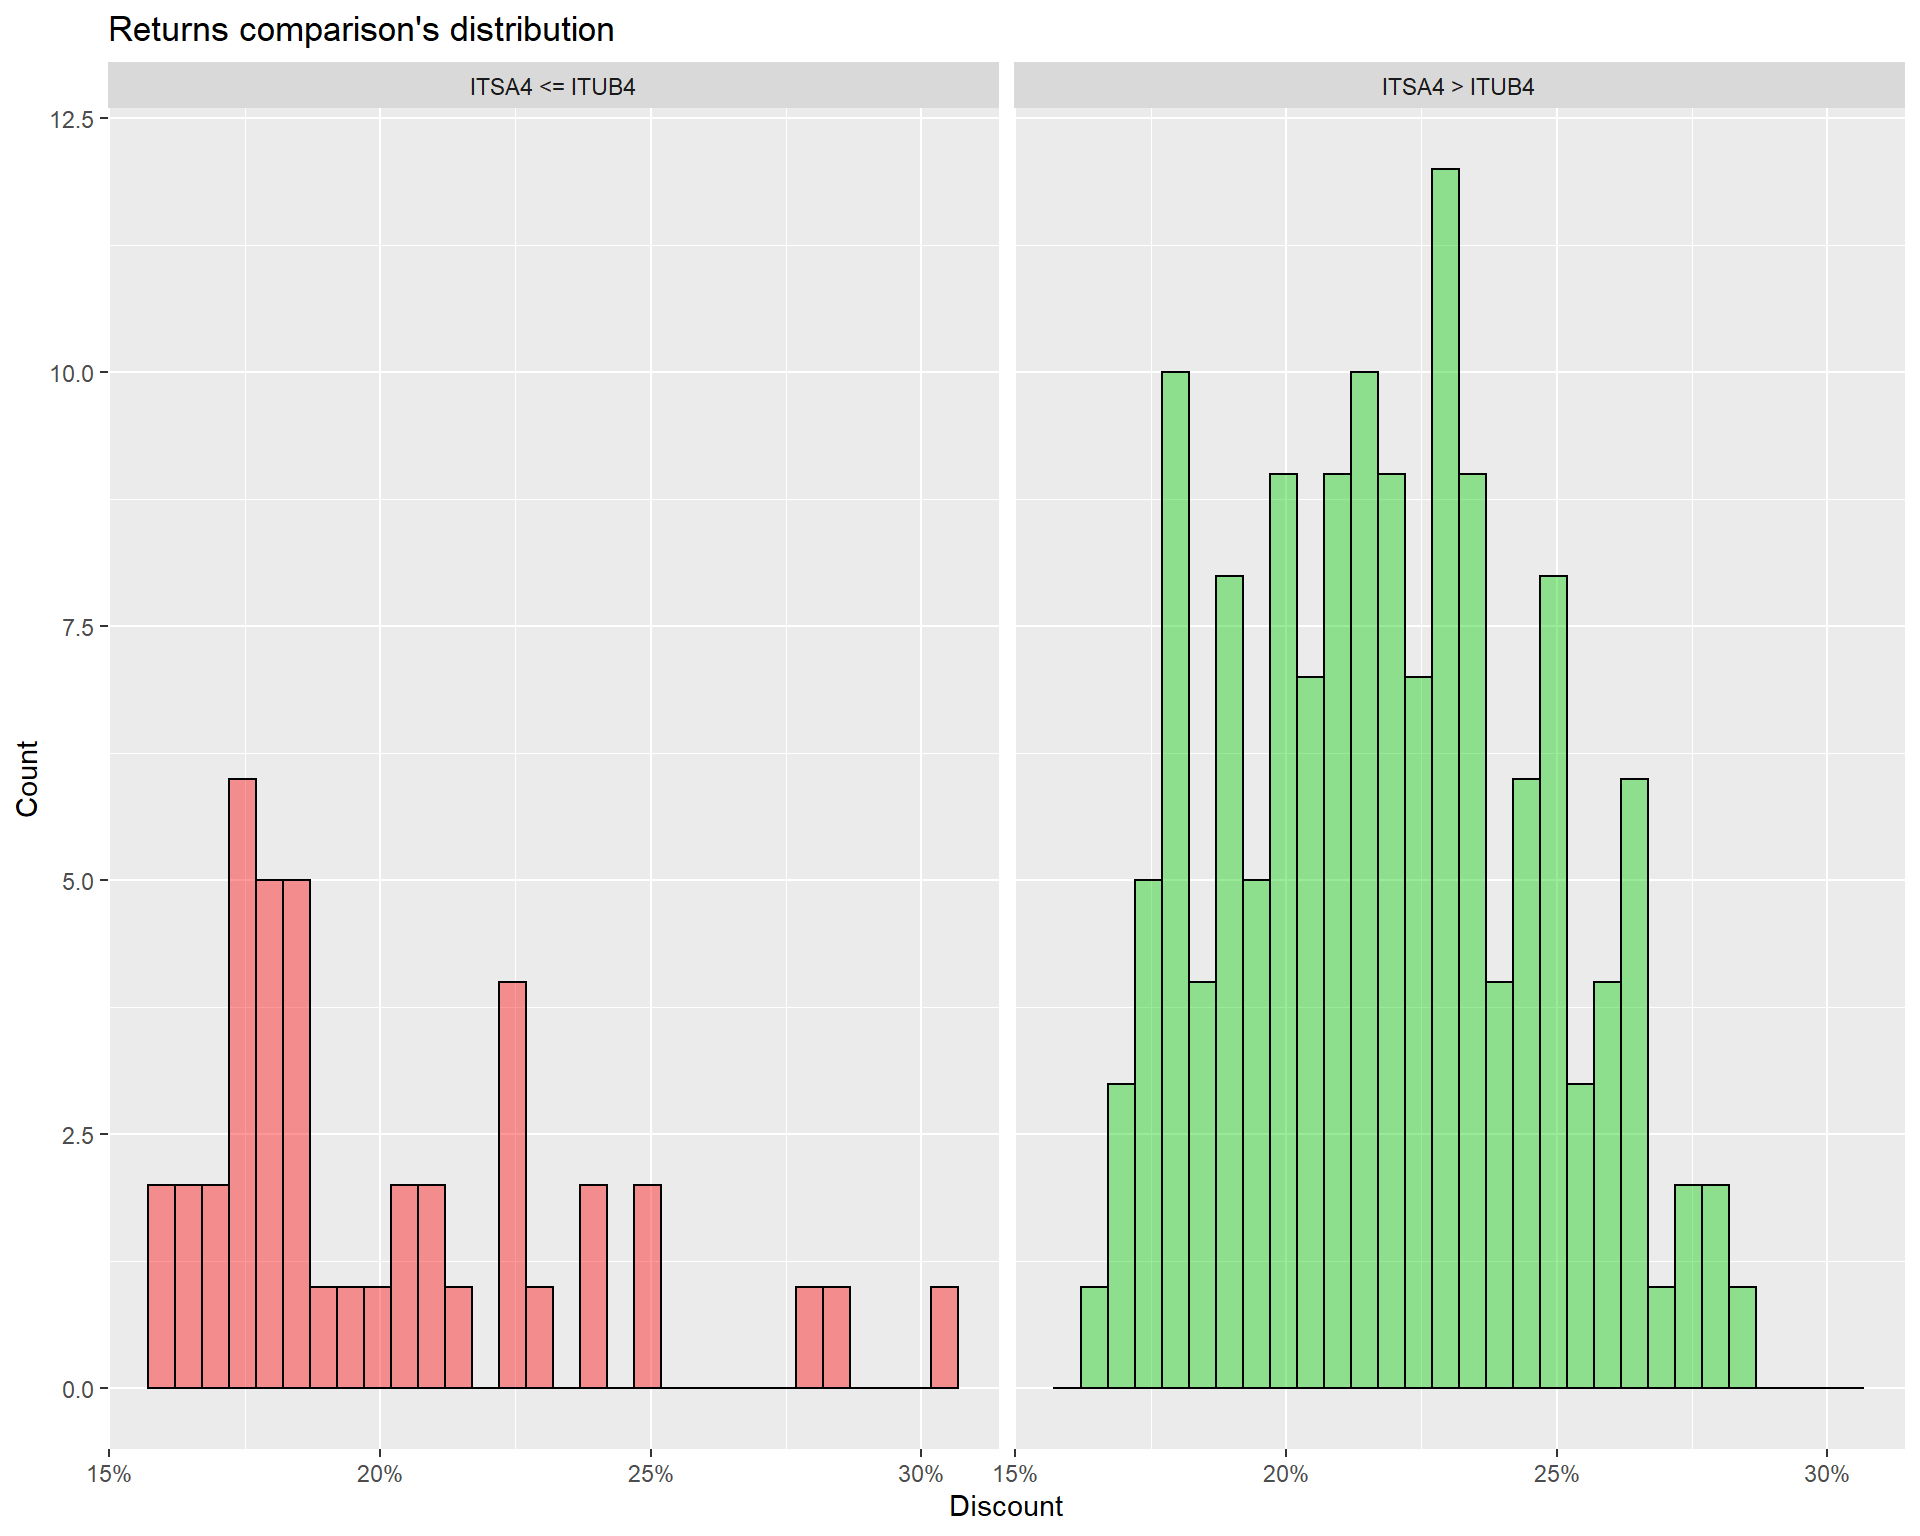
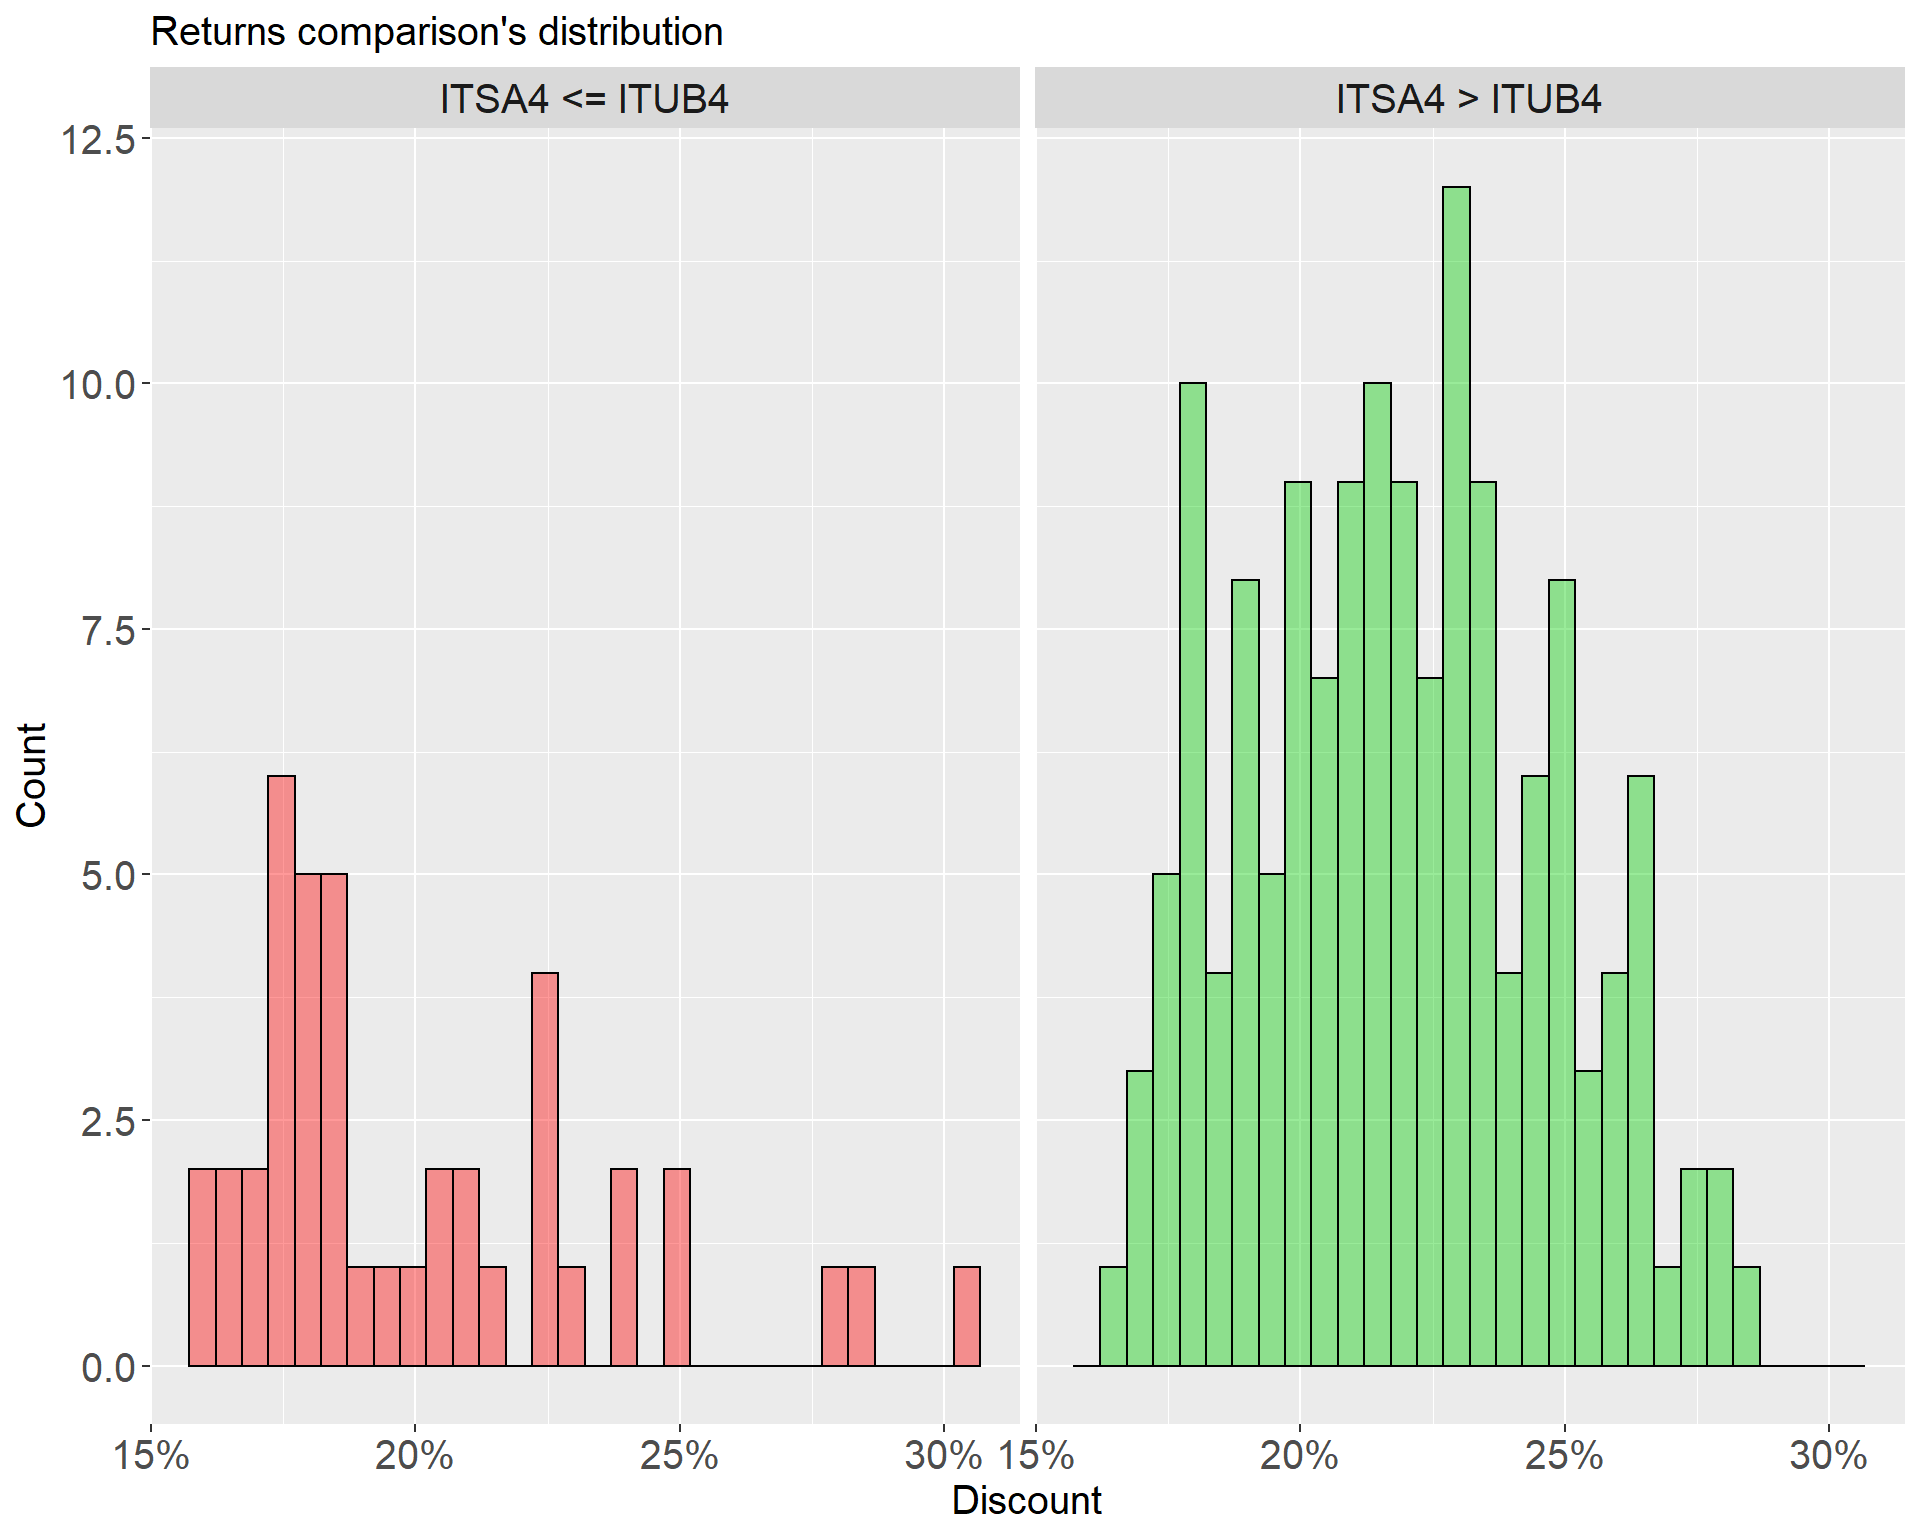
Update post

diff --git a/content/post/2021-07-31-arbitrate-itsa4-itub4/index.en.html b/content/post/2021-07-31-arbitrate-itsa4-itub4/index.en.html
@@ -53,7 +53,7 @@ g +
        y = &quot;ITUB4&quot;,
        title = &quot;Scatterplot ITSA4 versus ITUB4&quot;)</code></pre>
 <p><img src="{{< blogdown/postref >}}index.en_files/figure-html/correlation-1.png" width="960" /></p>
-<p>As you can see, correlatin is equal to 0.99, which means that ITUB4 and ITSA4 means almost the same thing. As a holding, ITSA4 is traded at a discount in relation to the sum of its investees’ market capitalization. But, how much is the “fair” discount and, can we buy ITSA4 simply to get ITUB4 at lower prices? These are the questions that this post intends to answer.</p>
+<p>As you can see, correlatin is equal to 0.99, which means that ITUB4 and ITSA4 mean almost the same thing. As a holding, ITSA4 is traded at a discount in relation to the sum of its investees’ market capitalization. But, how much is the “fair” discount, and can we buy ITSA4 simply to get ITUB4 at lower prices? These are the questions that this post intends to answer.</p>
 <p>Fortunatelly, Itaúsa calculates this discount for us, in a monthly basis (click <a href="https://www.itausa.com.br/ListAtivos.aspx?idCanal=Afrgtrc88Ma15TQHbkasoQ==&amp;linguagem=pt&amp;ano=2021">here</a> to get the data). If you don’t want to or don’t know how to get your hands dirty, I have already done the job, which you can see on the plot below:</p>
 <pre class="r"><code># load packages
 library(readxl)
@@ -74,11 +74,10 @@ ggplot(data = df, aes(x = date, y = discount)) +
   scale_y_continuous(labels = percent_format(accuracy = 1)) + 
   labs(x = &quot;Date&quot;,
        y = &quot;Discount&quot;,
-       title = &quot;Holding&#39;s discount in relation to shares held 
-       in investee companies&quot;) + 
-  theme(axis.text=element_text(size=12),
-        axis.title=element_text(size=12),
-        plot.title = element_text(size=12))</code></pre>
+       title = &quot;Holding&#39;s discount in relation to shares held in investee companies&quot;) + 
+  theme(axis.text=element_text(size=15),
+        axis.title=element_text(size=15),
+        plot.title = element_text(size=15))</code></pre>
 <p><img src="{{< blogdown/postref >}}index.en_files/figure-html/plot%20discount%20time%20series-1.png" width="960" /></p>
 <p>Dashed horizontal lines represent the mean (at the center), mean plus 1 standard deviation (at the top), and mean minus 1 standard deviation (at the bottom). In other words, in most part of the time, this discount ranges between something like 18% and 25%. Another way of visualizing the same information is plotting an histogram:</p>
 <pre class="r"><code># plot distribution
@@ -91,11 +90,11 @@ ggplot(data = df, aes(x = discount)) +
        title = &quot;Discount&#39;s Distribution&quot;) + 
   geom_vline(xintercept = mean(df$discount), 
              linetype = &quot;dashed&quot;, size = 1, color = &quot;red&quot;) + 
-  theme(axis.text=element_text(size=12),
-        axis.title=element_text(size=12),
-        plot.title = element_text(size=12))</code></pre>
+  theme(axis.text=element_text(size=15),
+        axis.title=element_text(size=15),
+        plot.title = element_text(size=15))</code></pre>
 <p><img src="{{< blogdown/postref >}}index.en_files/figure-html/discount%20histogram-1.png" width="960" /></p>
-<p>Dashed red vertical line represents the mean. Distribution is rigth-skewed, which means that in some occasions the discount was too high (more than 30%). Numerically, let’s view the summary stats:</p>
+<p>Red dashed vertical line represents the mean. Distribution is rigth-skewed, which means that in some occasions the discount was too high (more than 30%). Numerically, let’s view the summary stats:</p>
 <pre class="r"><code># summary statistics
 summary(df$discount)</code></pre>
 <pre><code>##    Min. 1st Qu.  Median    Mean 3rd Qu.    Max. 
@@ -131,7 +130,7 @@ head(data, n = 10)</code></pre>
 ## 8  2006-07-31   2.453617   6.984033   0.2768    3.552463    3.338467       1
 ## 9  2006-08-31   2.500275   6.769938   0.2512    3.467509    3.475669       0
 ## 10 2006-09-29   2.483807   6.831853   0.2681    3.497129    3.435107       1</code></pre>
-<p>There are many ways of visualizing if there are difference on discounts in both situations. Through a boxplot:</p>
+<p>There are many ways of visualizing if there are difference on discounts on both situations. Through a boxplot:</p>
 <pre class="r"><code># box plot of difference on returns
 ggplot(data = data, 
        aes(x = factor(success), 
@@ -145,9 +144,9 @@ ggplot(data = data,
        title = &quot;Returns comparison&#39;s boxplot&quot;) + 
   theme(legend.position = &quot;none&quot;) + 
   scale_fill_manual(values = c(&quot;red3&quot;,&quot;green4&quot;)) + 
-  theme(axis.text=element_text(size=12),
-        axis.title=element_text(size=12),
-        plot.title = element_text(size=12))</code></pre>
+  theme(axis.text=element_text(size=15),
+        axis.title=element_text(size=15),
+        plot.title = element_text(size=15))</code></pre>
 <p><img src="{{< blogdown/postref >}}index.en_files/figure-html/sucess%20failure%20boxplot-1.png" width="960" /></p>
 <p>A density distribution:</p>
 <pre class="r"><code># density of difference on returns                           
@@ -158,7 +157,11 @@ ggplot(data = data, aes(x = discount, fill = factor(success))) +
        y = &quot;Density&quot;,
        title = &quot;Returns comparison&#39;s distribution&quot;) + 
   theme(legend.position = &quot;bottom&quot;,
-        legend.title = element_blank()) + 
+        legend.title = element_blank(),
+        legend.text = element_text(size=15),
+        axis.text=element_text(size=15),
+        axis.title=element_text(size=15),
+        plot.title = element_text(size=15)) + 
   scale_fill_manual(labels = c(&quot;ITSA4 &lt;= ITUB4&quot;, &quot;ITSA4 &gt; ITUB4&quot;),
                     values = c(&quot;red&quot;,&quot;green3&quot;))</code></pre>
 <p><img src="{{< blogdown/postref >}}index.en_files/figure-html/success%20failure%20density-1.png" width="960" /></p>
@@ -175,7 +178,11 @@ data %&gt;%
   labs(x = &quot;Discount&quot;,
        y = &quot;Count&quot;,
        title = &quot;Returns comparison&#39;s distribution&quot;) + 
-  theme(legend.position = &quot;none&quot;) + 
+  theme(legend.position = &quot;none&quot;,
+        axis.text=element_text(size=15),
+        axis.title=element_text(size=15),
+        plot.title = element_text(size=15),
+        strip.text = element_text(size = 15)) + 
   scale_fill_manual(values=c(&quot;red&quot;, &quot;green3&quot;))</code></pre>
 <p><img src="{{< blogdown/postref >}}index.en_files/figure-html/success%20failure%20histogram-1.png" width="960" /></p>
 <p>On the three plots, we conclude that ITSA4 returns were higher than ITUB4 returns when ITSA4 was traded at a higher discount in relation to the sum of its investees’ market capitalization (which is pretty intuitive). About the third plot, green bars are much higher just because it is more frequent that ITSA4 gets a better return than ITUB4.</p>
@@ -188,28 +195,26 @@ data %&gt;%
             median = median(discount),
             mean = mean(discount),
             third_quantile = quantile(discount, .75),
-            maximum = max(discount))</code></pre>
-<pre><code>## # A tibble: 2 x 7
-##   success minimum first_quantile median  mean third_quantile maximum
-##     &lt;dbl&gt;   &lt;dbl&gt;          &lt;dbl&gt;  &lt;dbl&gt; &lt;dbl&gt;          &lt;dbl&gt;   &lt;dbl&gt;
-## 1       0   0.159          0.176  0.186 0.202          0.227   0.304
-## 2       1   0.166          0.197  0.218 0.219          0.237   0.282</code></pre>
+            maximum = max(discount)) %&gt;%
+  data.frame()</code></pre>
+<pre><code>##   success minimum first_quantile  median      mean third_quantile maximum
+## 1       0  0.1593       0.176325 0.18645 0.2017333        0.22675  0.3040
+## 2       1  0.1664       0.197100 0.21800 0.2187566        0.23720  0.2825</code></pre>
 <p>Paradoxically, the higher discount occured when ITUB4 return was higher than ITSA4 return, but this is just an exception that proves the rule. Now we will categorizy the variable discount, so that in each categorization there is at least 30 observations. After that, we will calculate the probability of success (ITSA4 &gt; ITUB4 returns) in each categorization:</p>
 <pre class="r"><code># probability of success by discount (numerically)
 library(Hmisc)
 data$discount_cat &lt;- cut2(data$discount, m = 30)
 data %&gt;%
   group_by(discount_cat) %&gt;%
-  summarise(prob = sum(success) / length(success))</code></pre>
-<pre><code>## # A tibble: 6 x 2
-##   discount_cat   prob
-##   &lt;fct&gt;         &lt;dbl&gt;
-## 1 [0.159,0.181) 0.5  
-## 2 [0.181,0.201) 0.758
-## 3 [0.201,0.213) 0.828
-## 4 [0.213,0.229) 0.839
-## 5 [0.229,0.248) 0.903
-## 6 [0.248,0.304] 0.839</code></pre>
+  summarise(prob = sum(success) / length(success)) %&gt;%
+  data.frame()</code></pre>
+<pre><code>##    discount_cat      prob
+## 1 [0.159,0.181) 0.5000000
+## 2 [0.181,0.201) 0.7575758
+## 3 [0.201,0.213) 0.8275862
+## 4 [0.213,0.229) 0.8387097
+## 5 [0.229,0.248) 0.9032258
+## 6 [0.248,0.304] 0.8387097</code></pre>
 <pre class="r"><code># view success probability by categorical discount
 data %&gt;%
   group_by(discount_cat) %&gt;%
@@ -221,17 +226,17 @@ data %&gt;%
         panel.grid.minor.x=element_blank(),
         panel.grid.major.y=element_line(linetype=&quot;dashed&quot;, color=&quot;black&quot;),
         axis.text.x=element_blank(),
-        axis.text.y=element_text(size = 12),
+        axis.text.y=element_text(size = 15),
         axis.ticks.x=element_blank(),
-        axis.title=element_text(size=12),
-        plot.title = element_text(size=12)) + 
+        axis.title=element_text(size=15),
+        plot.title = element_text(size=15)) + 
   labs(x = &quot;Probability&quot;,
        y = &quot;Discount&quot;,
        title = &quot;Probability of ITSA4 &gt; ITUB4 Returns&quot;) + 
   geom_text(aes(label = percent(prob)), hjust = -.1, vjust = -1) + 
   xlim(c(.5,1))</code></pre>
 <p><img src="{{< blogdown/postref >}}index.en_files/figure-html/success%20probability-1.png" width="960" /></p>
-<p>As expected, the higher the discount, the higher the probability of ITSA4 returns exceed ITUB4 returns. But, again, paradoxically, there is a drop on success probability in the maximum range of discount (24.8% to 30.4%). We can suspect that success depends on other factors than discount - for instance, when the observations were obtained (or, in other words, the passage of time). We can check this coloring time series’ discount, by success or failure:</p>
+<p>As expected, the higher the discount, the higher the probability of ITSA4 returns exceed ITUB4 returns. But, again, paradoxically, there is a drop on success probability in the maximum range of discount (24.8% to 30.4%). We could suspect that success depends on other factors than discount - for instance, when the observations were obtained (or, in other words, the passage of time). We can check this coloring time series’ discount, by success or failure:</p>
 <pre class="r"><code># plot time series
 ggplot(data = data, aes(x = date, 
                         y = discount, 
@@ -244,12 +249,13 @@ ggplot(data = data, aes(x = date,
   scale_y_continuous(labels = percent_format(accuracy = 1)) + 
   theme(legend.position = &quot;bottom&quot;,
         legend.title = element_blank(),
-        legend.text = element_text(size=12),
-        axis.text=element_text(size=12),
-        axis.title=element_text(size=12),
-        plot.title = element_text(size=12)) +
+        legend.text = element_text(size=15),
+        axis.text=element_text(size=15),
+        axis.title=element_text(size=15),
+        plot.title = element_text(size=15)) +
   scale_color_manual(values=c(&quot;red&quot;, &quot;green3&quot;), 
                      labels=c(&quot;ITSA4 &lt;= ITUB4&quot;, &quot;ITSA4 &gt; ITUB4&quot;))</code></pre>
 <p><img src="{{< blogdown/postref >}}index.en_files/figure-html/success%20failure%20time%20series-1.png" width="960" /></p>
 <p>The drop on probability seen on previous graph is due to the first observations (end of year 2005 and beginning of 2006), when the pattern studied in this post didn’t work very well.</p>
 <p>At Jun 2021, ITSA4 was being traded at a discount of 24%. And then, are you going to buy, keep or sell?</p>
+<p>Obs.: you can get data set about ITSA4 discounts and codes on my Github repository, clicking (here)[<a href="https://github.com/Sidonesio/ITSA4" class="uri">https://github.com/Sidonesio/ITSA4</a>].</p>
